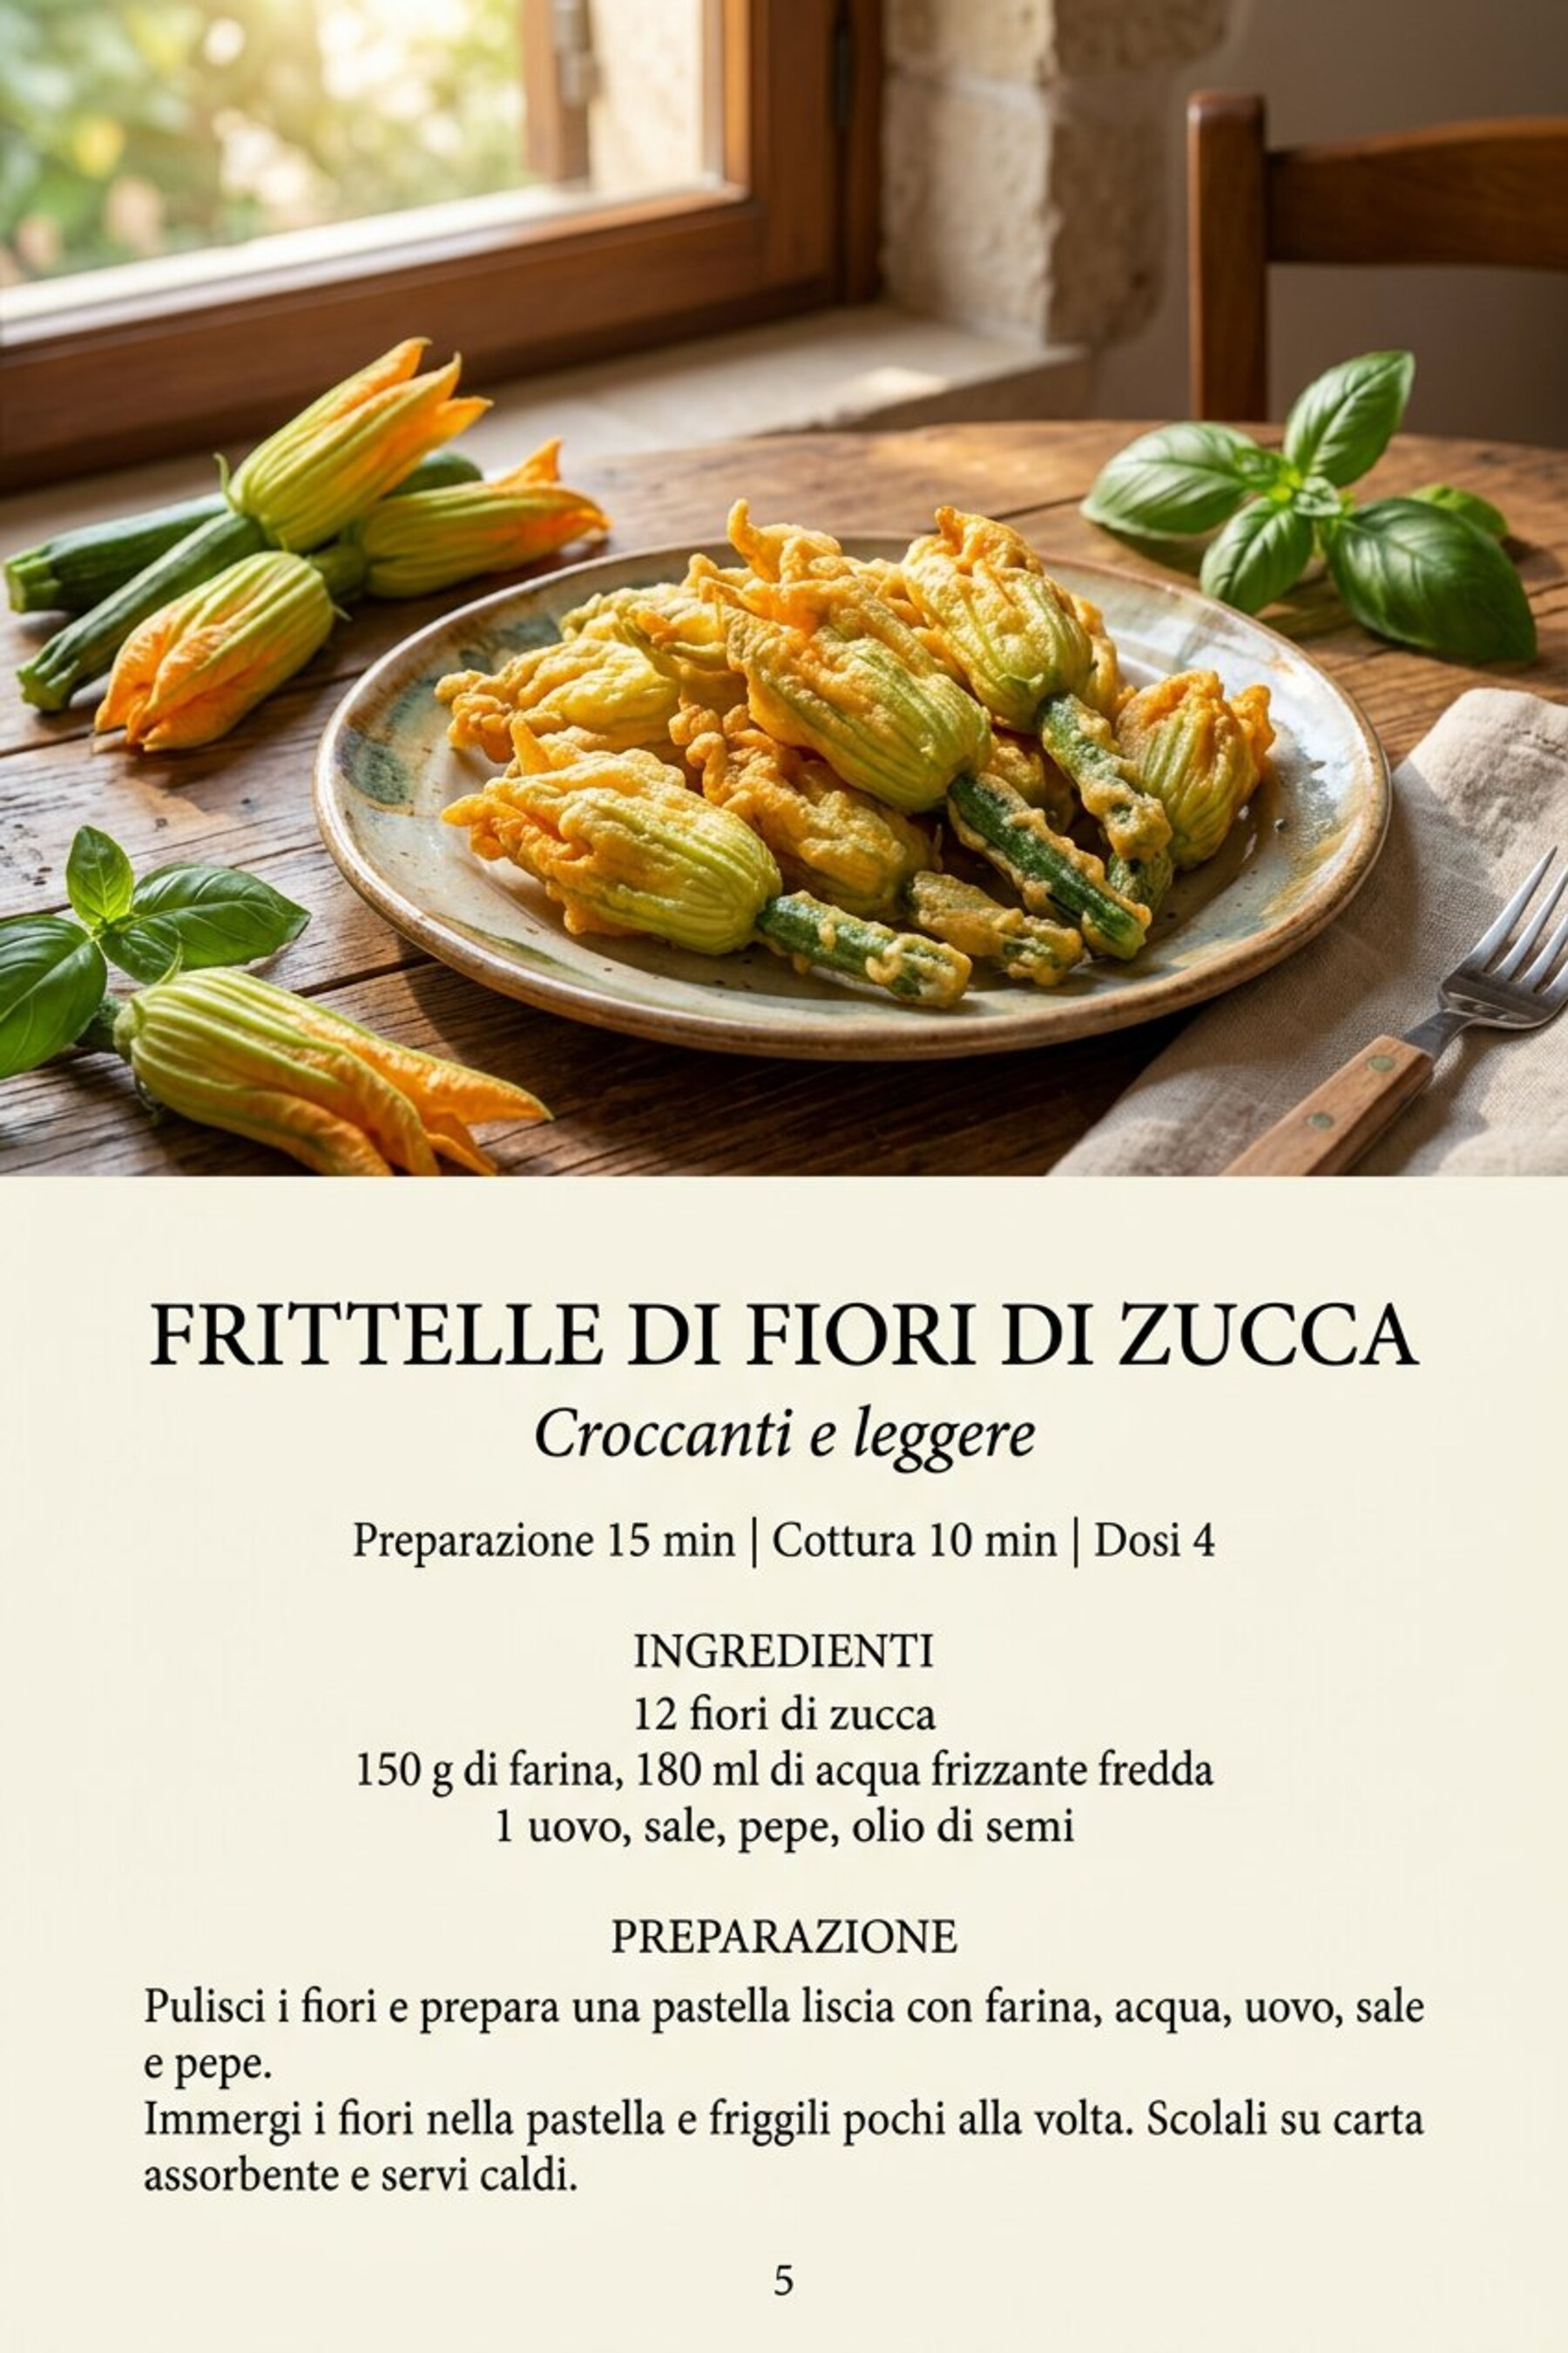
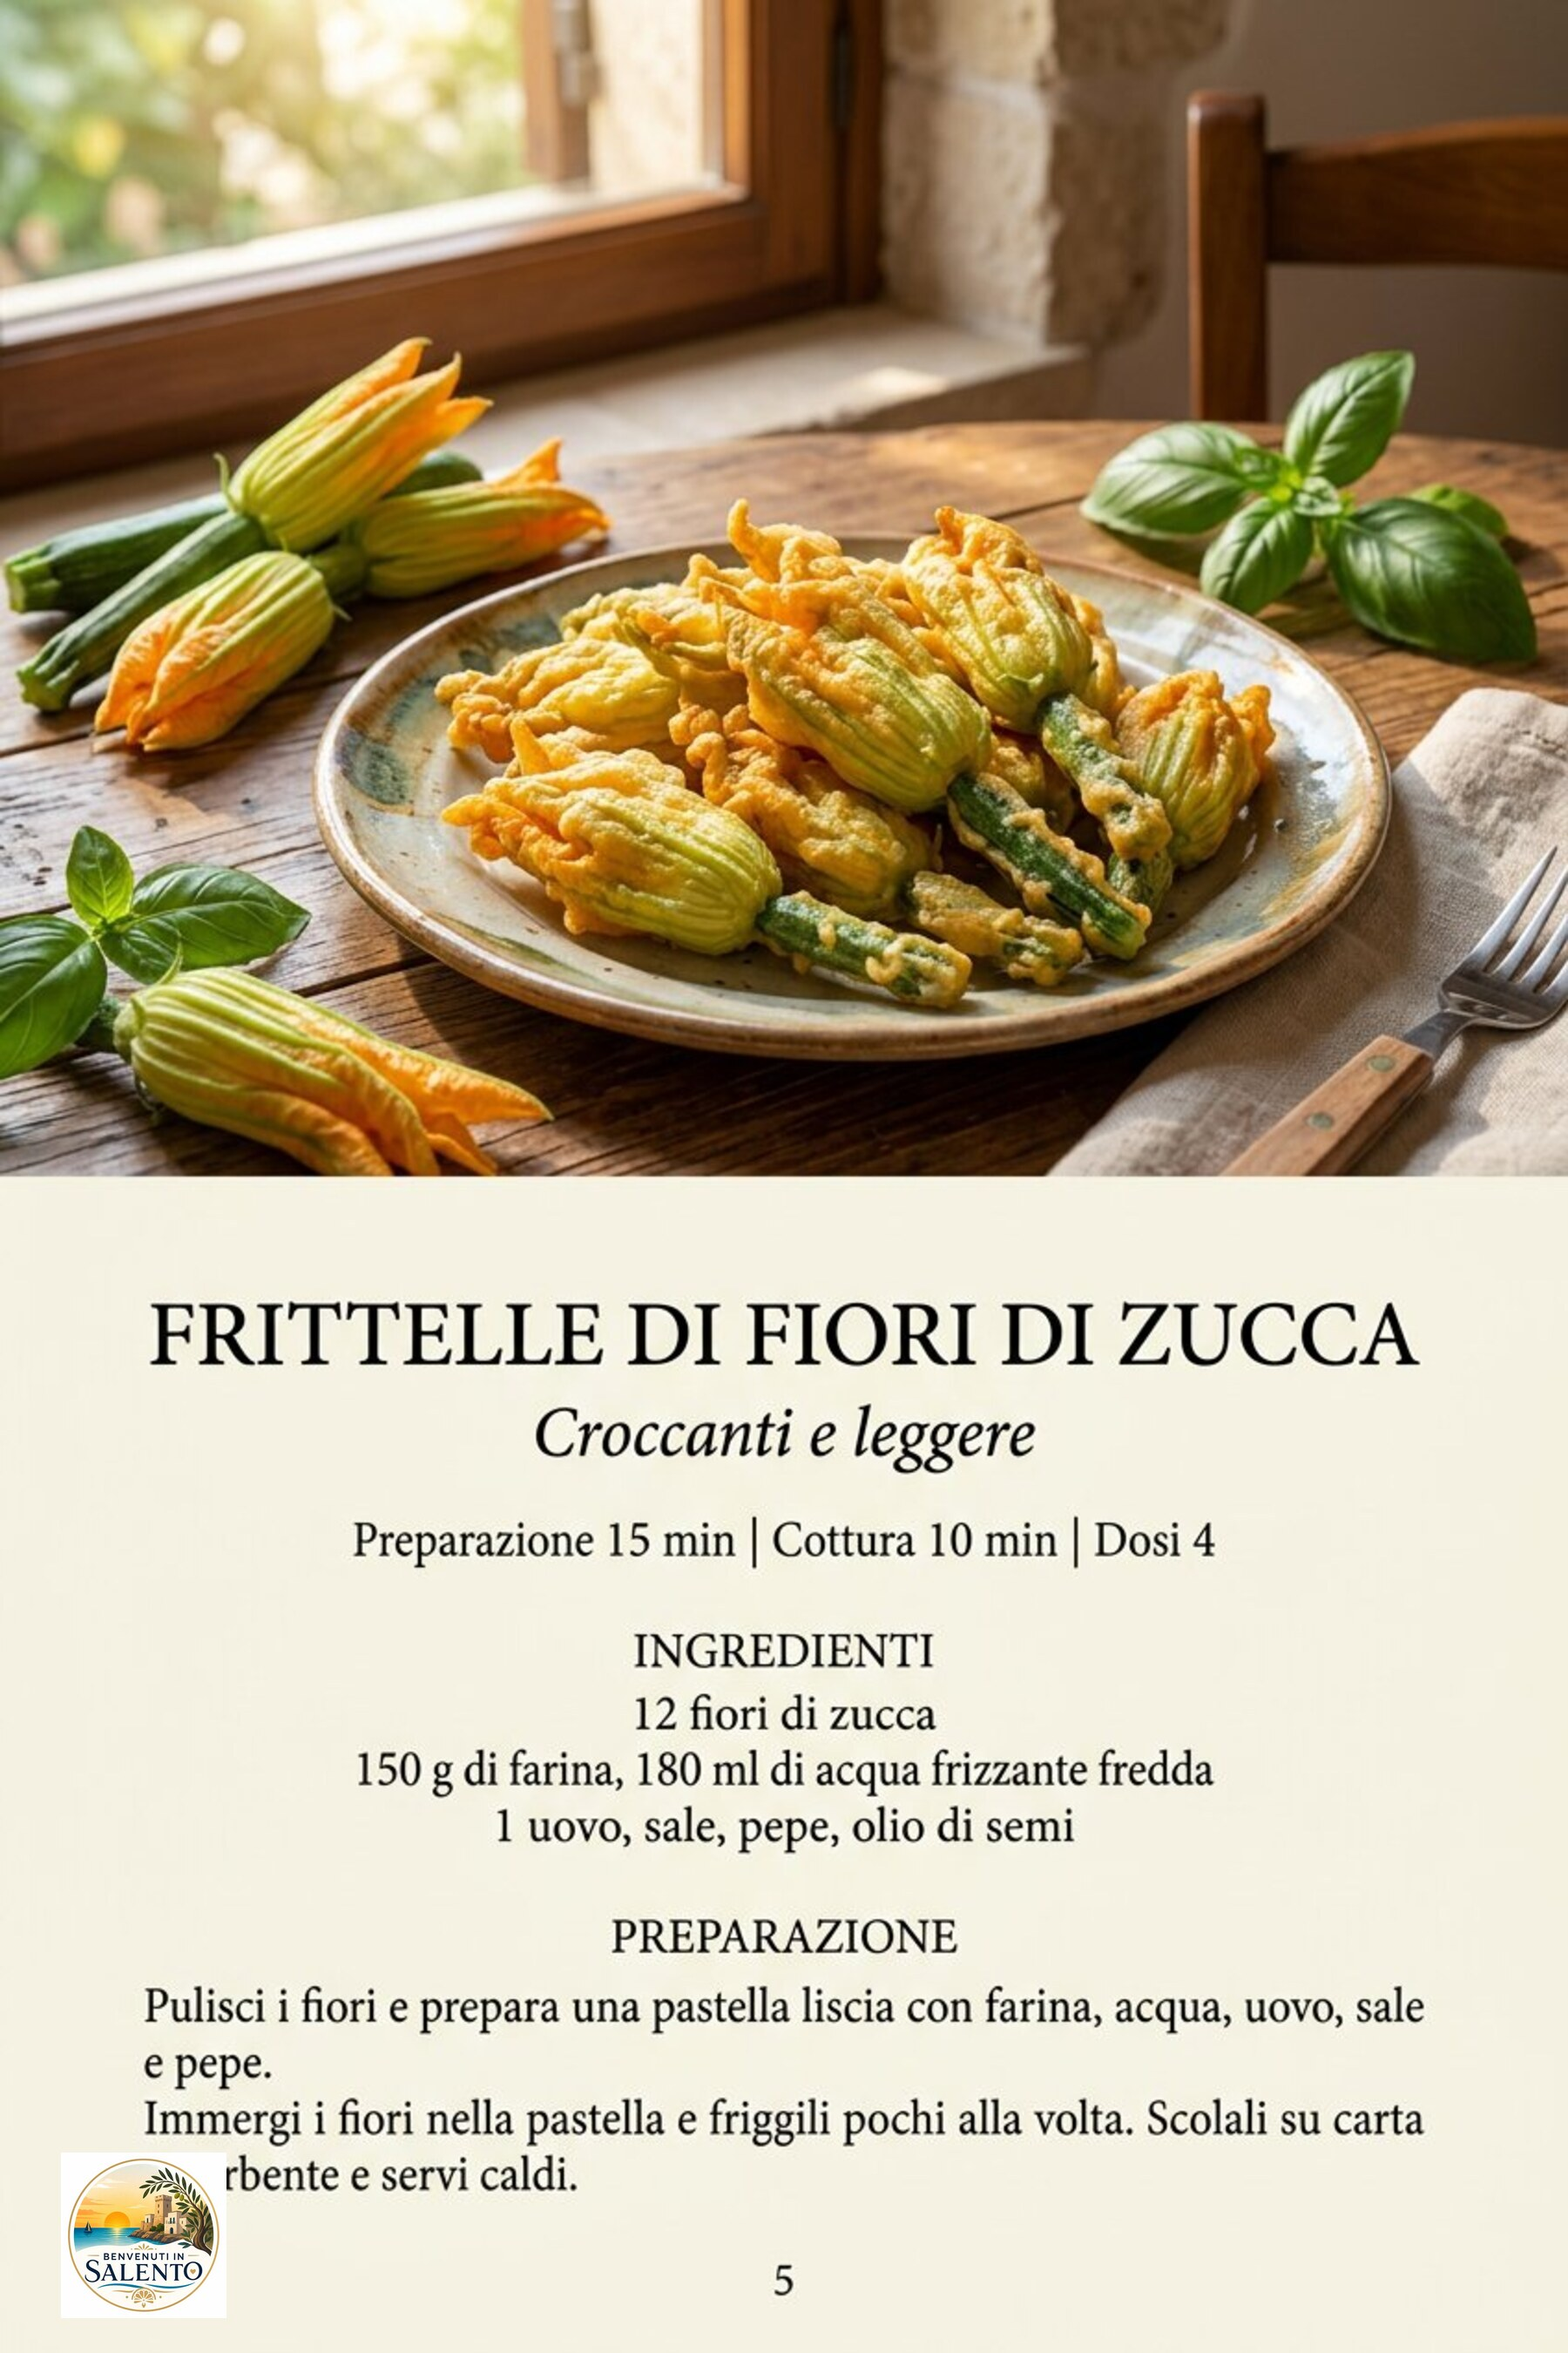
Brand Salento cookbook for Benvenuti in Salento

Changed region(s): [[0.0311, 0.9022, 0.1556, 0.9956]]

diff --git a/scripts/apply_branding.py b/scripts/apply_branding.py
@@ -1,0 +1,66 @@
+#!/usr/bin/env python3
+"""Apply the supplied Benvenuti in Salento logo and copyright footer to every page."""
+from __future__ import annotations
+
+import argparse
+import subprocess
+from pathlib import Path
+
+
+def run(*args: str) -> None:
+    subprocess.run(list(args), check=True)
+
+
+def main() -> None:
+    parser = argparse.ArgumentParser()
+    parser.add_argument("--pages", type=Path, default=Path("pages"))
+    parser.add_argument("--logo", type=Path, default=Path("assets_benvenutiinsalento_logo.png"))
+    parser.add_argument("--brand-name", default="Benvenuti in Salento")
+    parser.add_argument("--website", default="benvenutiinsalento.it")
+    args = parser.parse_args()
+
+    pages = sorted(args.pages.glob("page_*.jpg"))
+    if len(pages) != 30:
+        raise SystemExit(f"Expected 30 pages, found {len(pages)}")
+    if not args.logo.exists():
+        raise SystemExit(f"Logo not found: {args.logo}")
+
+    work = args.pages / ".branding_work"
+    work.mkdir(exist_ok=True)
+    logo_small = work / "logo_190.png"
+    credits = work / "copyright_footer.png"
+    run("convert", str(args.logo), "-resize", "190x190!", "-strip", str(logo_small))
+
+    line_one = f"Opera editoriale esclusiva per {args.brand_name}"
+    line_two = f"© 2026 {args.brand_name} · {args.website} · Riproduzione vietata"
+    # A cream, bordered footer keeps the credit readable over the photographic page.
+    run(
+        "convert", "-size", "1420x150", "xc:#fffdf6",
+        "-fill", "#c89e4b", "-stroke", "#c89e4b", "-strokewidth", "3",
+        "-draw", "roundrectangle 2,2 1418,148 16,16",
+        "-fill", "#15283f", "-stroke", "none", "-font", "DejaVu-Sans",
+        "-gravity", "center", "-pointsize", "24", "-annotate", "+0-25", line_one,
+        "-pointsize", "18", "-annotate", "+0+25", line_two,
+        "-strip", str(credits),
+    )
+
+    for page in pages:
+        tmp = work / page.name
+        command = [
+            "convert", str(page), str(logo_small), "-geometry", "+70+2470", "-composite",
+        ]
+        if page.name.startswith("page_030_"):
+            command.extend([str(credits), "-geometry", "+320+2390", "-composite"])
+        command.extend(["-strip", "-quality", "88", str(tmp)])
+        run(*command)
+        tmp.replace(page)
+
+    # Keep the source logo and brand metadata in the repository; do not retain scratch files.
+    for scratch in (logo_small, credits):
+        scratch.unlink(missing_ok=True)
+    work.rmdir()
+    print(f"Applied {args.brand_name} logo to {len(pages)} pages; copyright footer added to page 30.")
+
+
+if __name__ == "__main__":
+    main()

diff --git a/scripts/build_epub.py b/scripts/build_epub.py
@@ -110,6 +110,8 @@ img { display: block; width: 1800px; height: 2700px; object-fit: fill; margin: 0
     title = html.escape(config["title"])
     subtitle = html.escape(config.get("subtitle", ""))
     language = html.escape(config.get("language", "it"))
+    rights = html.escape(config.get("rights", ""))
+    rights_element = f"    <dc:rights>{rights}</dc:rights>\n" if rights else ""
     opf = f'''<?xml version="1.0" encoding="utf-8"?>
 <package xmlns="http://www.idpf.org/2007/opf" version="3.0" unique-identifier="book-id" prefix="rendition: http://www.idpf.org/vocab/rendition/#">
   <metadata xmlns:dc="http://purl.org/dc/elements/1.1/">
@@ -117,7 +119,7 @@ img { display: block; width: 1800px; height: 2700px; object-fit: fill; margin: 0
     <dc:title>{title}</dc:title>
     <dc:language>{language}</dc:language>
     <dc:description>{subtitle}</dc:description>
-    <meta property="dcterms:modified">{modified}</meta>
+{rights_element}    <meta property="dcterms:modified">{modified}</meta>
     <meta property="rendition:layout">pre-paginated</meta>
     <meta property="rendition:orientation">portrait</meta>
     <meta property="rendition:spread">none</meta>
